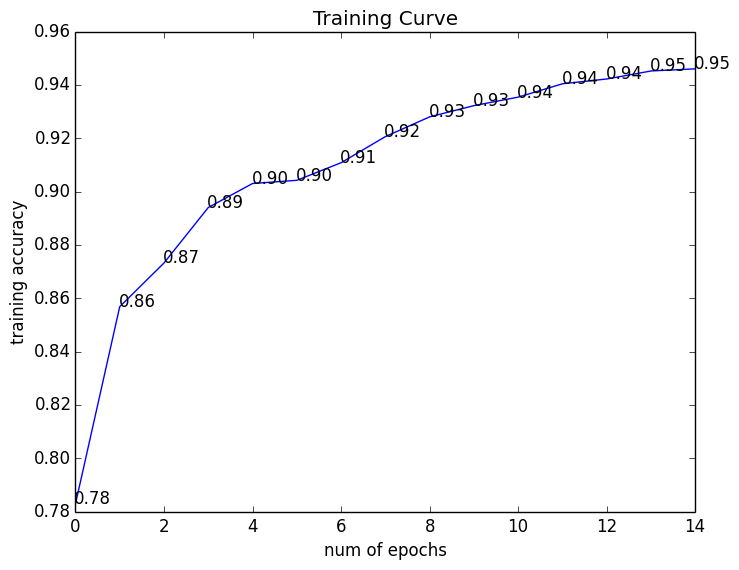
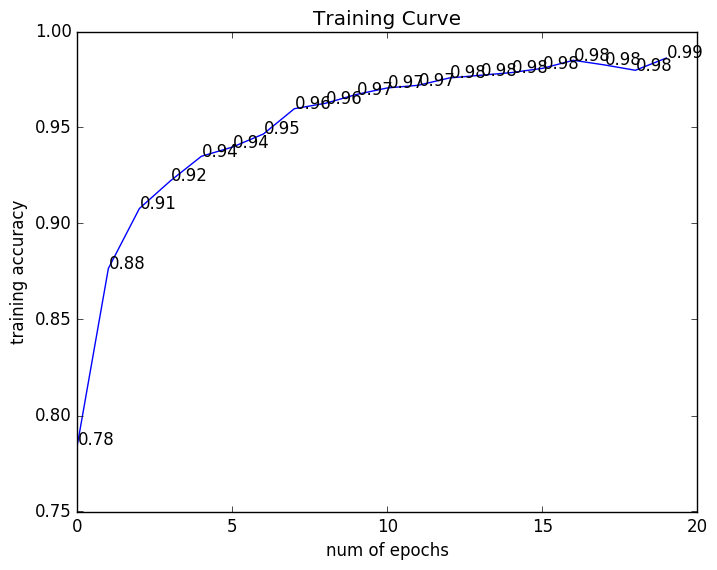
changed little bit

diff --git a/experiment.py b/experiment.py
@@ -50,13 +50,14 @@ def main():
     w = np.array([[0 for i in range(784)]for j in range(10)])
     w = w.astype(float)
     train_acc = [] # [0 for i in range(epochs)]
+    test_acc = []
 
     # training
     # for j in range(epochs):
     epochs = 1
     while True:
         mistakes = 0
-        alpha = 1000.0/(1000.0+epochs)
+        alpha = 1.0/(1.0+epochs)
         for i in range(5000):
             mistakes += P.perceptron_train(w, alpha, train[i], train_labels[i])
 
@@ -64,7 +65,19 @@ def main():
         print train_acc[epochs-1], epochs
         
         # stop training if not improving much
-        if epochs != 1 and train_acc[epochs-1] - train_acc[epochs-2] < 0.001:
+        #if epochs != 1 and train_acc[epochs-1] - train_acc[epochs-2] < 0.001:
+
+        ### test accuracy here
+        accuracy = 0
+        for i in range(1000):
+            guess = P.perceptron_decision(w, test[i])
+            if guess == test_labels[i]:
+                accuracy += 1
+        accuracy /= 1000.0    
+        test_acc.append(accuracy)
+        #### 
+
+        if epochs == 13:
             break
         epochs+=1
     # draw training accuracies in the end
@@ -110,6 +123,21 @@ def main():
 
     plt.plot(range(epochs), train_acc)
     plt.savefig('training_curve.png', bbox_inches='tight')
+
+    # draw testing accuracies
+    fig = plt.figure()
+
+    plt.xlabel('num of epochs')
+    plt.ylabel('testing accuracy')
+    plt.title('Testing Curve')
+    
+    ax = fig.add_subplot(111)
+    for i,j in zip(range(epochs), test_acc):
+        ax.annotate(str("{0:.2f}".format(j)),xy=(i,j))
+
+    plt.plot(range(epochs), test_acc)
+    plt.savefig('testing_curve.png', bbox_inches='tight')
+
     # plt.show()
  
 

diff --git a/experiment_bias.py b/experiment_bias.py
@@ -41,7 +41,6 @@ def parse_labels(fname, N):
 def main():
     # params to tune
     bias = 0
-    # alpha = 1  # ? not sure learning rate decay function here
     # epochs = 20
 
     # arrays containing train and test
@@ -60,7 +59,7 @@ def main():
     epochs = 1
     while True:
         mistakes = 0
-        alpha = 1000.0/(1000.0+epochs)
+        alpha = 1.0/(1.0+epochs)
         for i in range(5000):
             mistakes += P.perceptron_train(w, alpha, train[i], train_labels[i])
 
@@ -68,7 +67,8 @@ def main():
         print train_acc[epochs-1], epochs
         
         # stop training if not improving much
-        if epochs != 1 and train_acc[epochs-1] - train_acc[epochs-2] < 0.001:
+        #if epochs != 1 and train_acc[epochs-1] - train_acc[epochs-2] < 0.001:
+        if epochs == 20:
             break
         epochs+=1
     # draw training accuracies in the end

diff --git a/perceptron.py b/perceptron.py
@@ -25,8 +25,8 @@ def perceptron_train(w, r, x, y):
     """
     c = perceptron_decision(w, x)
     if y != c:    # misclassification -> needs update, else do nothing
-        w[c] -= r*x
-        w[y] += r*x
+        w[c] -= r*x     # demo 
+        w[y] += r*x     # promo 
         # for i in range(10):
         #     if i != c:
         #         w[i] += r*x
